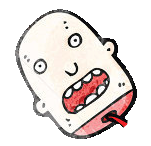
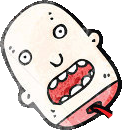
Adds litter and game over state

diff --git a/src/states/Game.js b/src/states/Game.js
@@ -1,15 +1,16 @@
 /* globals __DEV__ */
 import Phaser from 'phaser'
 import Head from '../sprites/Head'
+import Litter from '../sprites/Litter'
 
 export default class extends Phaser.State {
-  init () {}
-  preload () {}
+  init() { }
+  preload() { }
 
-  create () {
+  create() {
     this.drawGround();
     this.game.physics.startSystem(Phaser.Physics.ARCADE);
-    this.game.physics.arcade.gravity.y = 250;
+    this.game.physics.arcade.gravity.y = 350;
 
     this.head = new Head({
       game: this.game,
@@ -20,13 +21,16 @@ export default class extends Phaser.State {
     this.game.physics.enable(this.head, Phaser.Physics.ARCADE);
     this.head.body.bounce.y = .5;
     this.head.body.collideWorldBounds = true;
-    this.head.body.velocity.y = -400;
     this.head.anchor.setTo(0.5, 0.5);
-    this.head.update = function(){
+    this.head.update = function () {
       this.roll();
 
     }
     this.game.add.existing(this.head)
+
+    this.obstacle = this.createObstacle();
+    this.game.add.existing(this.obstacle);
+
     this.emitter = game.add.emitter();
     this.emitter.setScale(0.1, .3, 0.1, .3, 2000, Phaser.Easing.Exponential.Out);
     this.emitter.makeParticles('blood1');
@@ -34,29 +38,52 @@ export default class extends Phaser.State {
     this.game.input.onDown.add(this.bounce, this);
   }
 
-  update(){
+  update() {
     let angle = (this.head.angle + 50) * 0.017453292;
     this.emitter.emitParticle(this.head.x + 60 * Math.cos(angle), this.head.y + 60 * Math.sin(angle));
-    if(this.head.x > this.game.width){
-      game.add.tween(this.startText).to( { alpha: 1 }, 3000, "Linear", true);
+    if (this.head.x > this.game.width) {
+      game.add.tween(this.startText).to({ alpha: 1 }, 3000, "Linear", true);
     }
+    if (this.obstacle.x < 100) {
+      this.obstacle = this.createLitter();
+      this.game.add.existing(this.obstacle);
+    }
+    if(Phaser.Rectangle.intersects(this.head.getBounds(), this.obstacle.getBounds())) this.gameOver();
   }
 
-  bounce(){
+  bounce() {
     console.log('bounce');
-    if(this.head.y > this.world.height - (this.head.height * .75)){
-      this.head.body.velocity.y = -500;
+    if (this.head.y > this.world.height - (this.head.height * .75)) {
+      this.head.body.velocity.y = -450;
     }
   }
 
-  drawGround(){
+  drawGround() {
     var graphics = game.add.graphics(0, 0);
     graphics.beginFill(0x00AA00);
     graphics.lineStyle(2, 0x006600, 1);
     graphics.drawRect(0, this.world.height * .9, this.world.width, this.world.height);
   }
 
-  render () {
+  gameOver(){
+    console.log("game over")
+    this.state.start('Over');
+  }
+
+  createObstacle() {
+    return this.createLitter()
+  }
+
+  createLitter() {
+    return new Litter({
+      game: this.game,
+      x: this.world.width + (1200 + (Math.random() * 800)),
+      y: this.world.height - 70,
+      asset: 'litter'
+    })
+  }
+
+  render() {
     if (__DEV__) {
       this.game.debug.spriteInfo(this.head, 32, 32)
     }

diff --git a/src/states/Over.js b/src/states/Over.js
@@ -13,7 +13,7 @@ export default class extends Phaser.State {
   }
 
   create() {
-    this.banner = this.add.text(this.world.centerX, 80, 'HEAD');
+    this.banner = this.add.text(this.world.centerX, 80, 'GAME OVER');
     this.banner.font = 'Nosifer'
     this.banner.padding.set(10, 16)
     this.banner.fontSize = 90
@@ -21,29 +21,23 @@ export default class extends Phaser.State {
     this.banner.smoothed = true
     this.banner.anchor.setTo(0.5)
 
-    this.startText = this.add.text(this.world.centerX, this.game.height - 80, 'Click to start');
+    this.startText = this.add.text(this.world.centerX, this.game.height - 80, 'Click to try again');
     this.startText.inputEnabled = true;
     this.startText.font = 'Arvo'
     this.startText.fontSize = 50
     this.startText.fill = '#999'
     this.startText.smoothed = true
-    this.startText.alpha = 0;
     this.startText.anchor.setTo(0.5)
 
     this.head = new Head({
       game: this.game,
-      x: -100,
+      x: this.world.centerX,
       y: this.world.centerY,
       asset: 'head'
     })
     this.head.anchor.setTo(0.5, 0.5);
     this.head.update = function(){
-      this.roll();
-      if(this.x < (this.game.world.width + 200)){
-        this.x += 2
-      }else{
-        this.x = -50
-      }
+      //this.roll();
     }
     this.game.add.existing(this.head)
     this.game.input.onDown.add(this.startGame, this);
@@ -56,9 +50,6 @@ export default class extends Phaser.State {
   update(){
     let angle = (this.head.angle + 50) * 0.017453292;
     this.emitter.emitParticle(this.head.x + 60 * Math.cos(angle), this.head.y + 60 * Math.sin(angle));
-    if(this.head.x > this.game.width){
-      game.add.tween(this.startText).to( { alpha: 1 }, 3000, "Linear", true);
-    }
   }
 
   startGame() {

diff --git a/src/main.js b/src/main.js
@@ -5,6 +5,7 @@ import Phaser from 'phaser'
 import BootState from './states/Boot'
 import SplashState from './states/Splash'
 import GameState from './states/Game'
+import OverState from './states/Over'
 
 import config from './config'
 
@@ -19,7 +20,8 @@ class Game extends Phaser.Game {
     this.state.add('Boot', BootState, false)
     this.state.add('Splash', SplashState, false)
     this.state.add('Game', GameState, false)
-
+    this.state.add('Over', OverState, false)
+    
     // with Cordova with need to wait that the device is ready so we will call the Boot state in another file
     if (!window.cordova) {
       this.state.start('Boot')

diff --git a/src/index.html b/src/index.html
@@ -3,7 +3,7 @@
 
 <head>
     <meta charset="UTF-8">
-    <title>Phaser - ES6 - Webpack</title>
+    <title>HEAD - The Game</title>
     <meta name="viewport" content="width=device-width, initial-scale=1, user-scalable=no">
     <meta name="HandheldFriendly" content="True">
     <meta name="MobileOptimized" content="320">

diff --git a/src/states/Boot.js b/src/states/Boot.js
@@ -11,7 +11,7 @@ export default class extends Phaser.State {
   preload () {
     WebFont.load({
       google: {
-        families: ['Griffy', 'Nosifer']
+        families: ['Arvo', 'Nosifer']
       },
       active: this.fontsLoaded
     })

diff --git a/src/sprites/Litter.js b/src/sprites/Litter.js
@@ -1,0 +1,12 @@
+import Phaser from 'phaser'
+
+export default class extends Phaser.Sprite {
+  constructor ({ game, x, y, asset }) {
+    super(game, x, y, asset)
+    this.anchor.setTo(0.5)
+  }
+
+  update () {
+    this.x -= 8
+  }
+}
